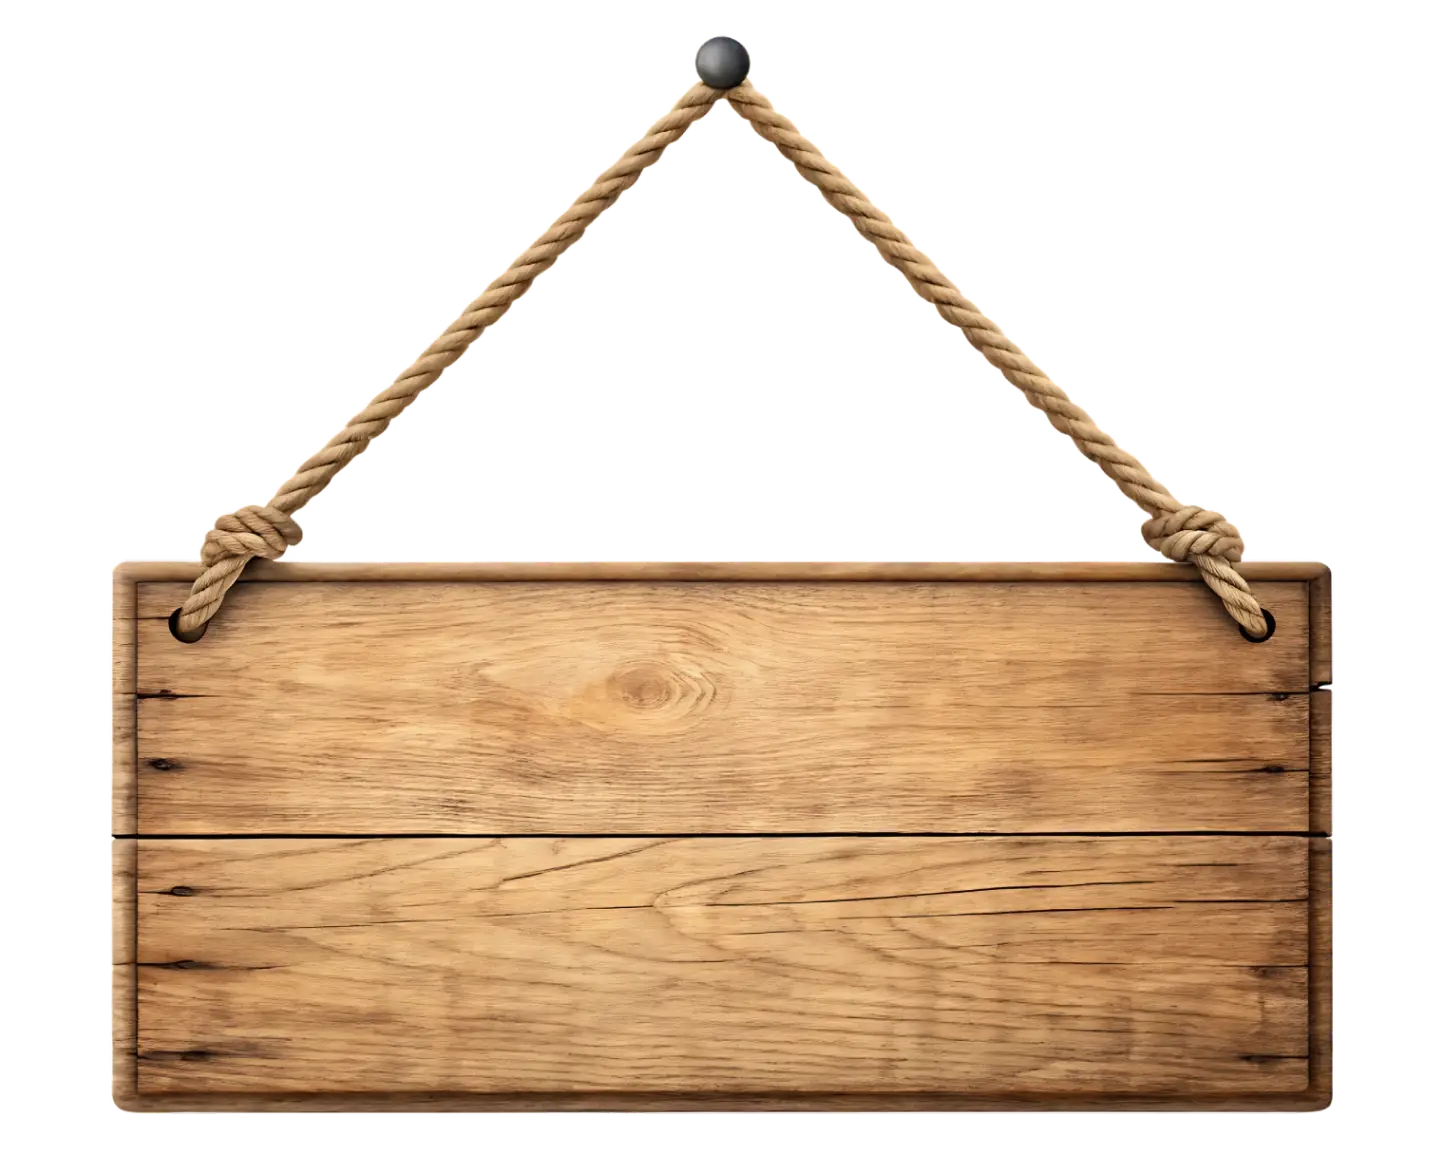
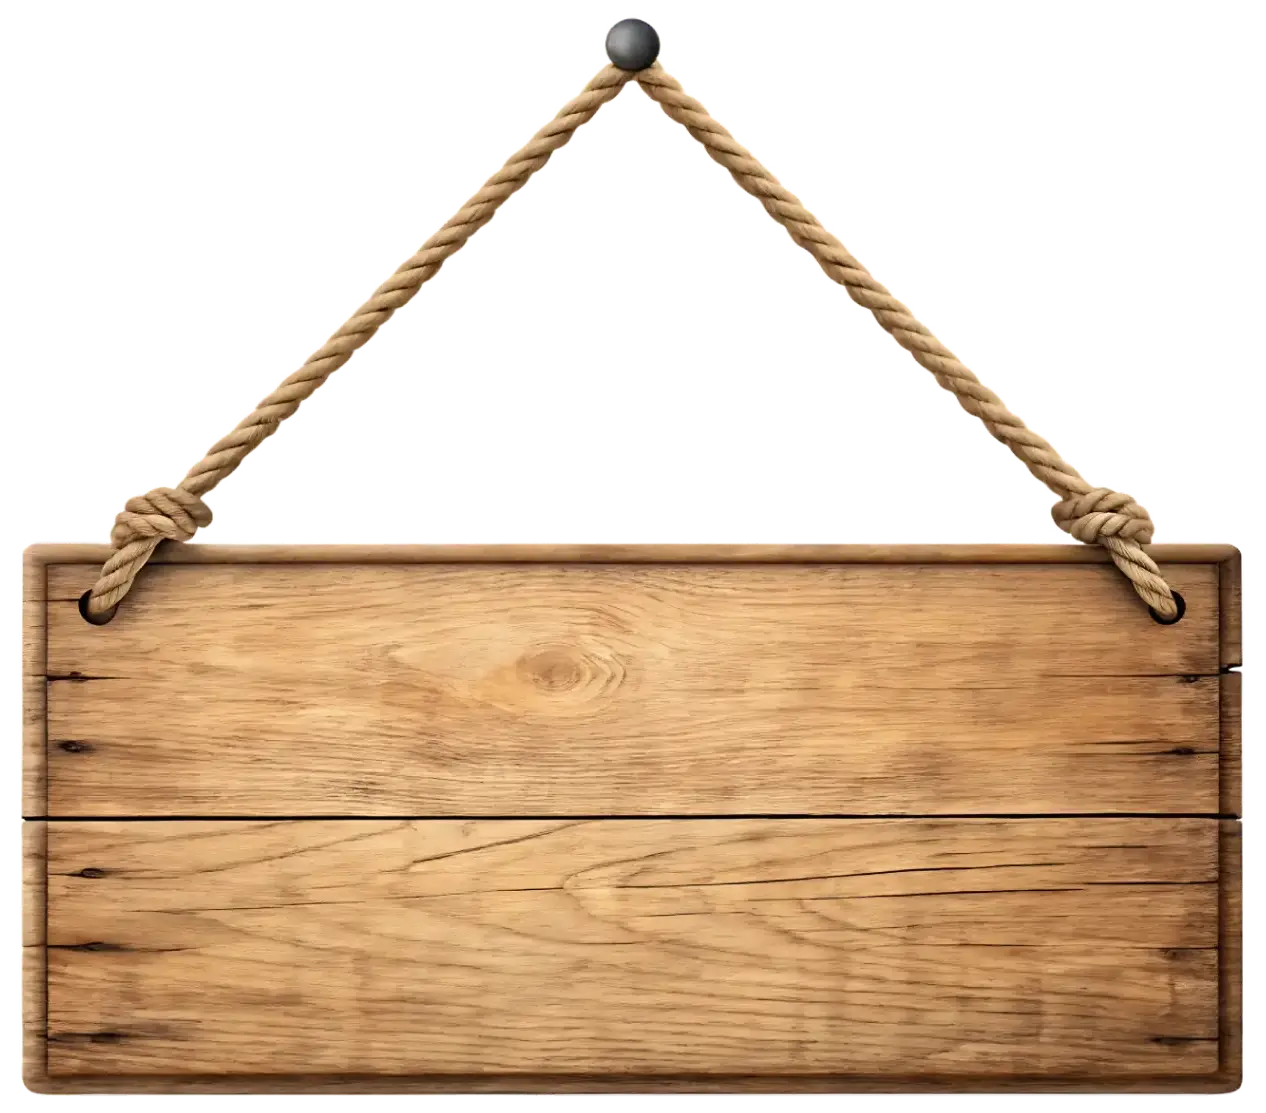
refactor: enhance loading animations and layout styling

Changed region(s): [[0.0, 0.0, 0.9858, 1.0]]

diff --git a/components/global/LoadingScreen.tsx b/components/global/LoadingScreen.tsx
@@ -40,7 +40,7 @@ export default function LoadingScreen() {
       >
         <motion.div
           style={{
-            transformOrigin: "50% 0%",
+            transformOrigin: "50% 50%",
           }}
           initial={{
             y: -600,
@@ -51,7 +51,7 @@ export default function LoadingScreen() {
             phase === "loading"
               ? {
                   y: 0,
-                  rotate: [5, -5, 4, -4, 3, -3, 2, -2, 0],
+                  rotate: [1.2, -1.2, 1, -1, 0.8, -0.8, 0.5, -0.5, 0],
                 }
               : {
                   y: -1200,
@@ -83,7 +83,7 @@ export default function LoadingScreen() {
           <img
             src="/images/wood-board.webp"
             alt="Loading Board"
-            className="select-none pointer-events-none w-[550px]"
+            className="block mx-auto select-none pointer-events-none w-[85vw] max-w-137.5"
             draggable={false}
           />
 

diff --git a/components/homepage/Banner.tsx b/components/homepage/Banner.tsx
@@ -52,18 +52,27 @@ const Banner = () => {
       }}
     >
       <motion.div
+        className="origin-top"
         initial={{
           y: -600,
           opacity: 0,
+          rotate: 0,
         }}
         animate={{
           y: 0,
           opacity: 1,
+          rotate: [0, -0.6, 0.6, -0.6, 0.6, 0],
         }}
         transition={{
-          delay: 5,
-          duration: 1.2,
-          ease: [0.22, 1, 0.36, 1],
+          y: { delay: 5, duration: 1.2, ease: [0.22, 1, 0.36, 1] },
+          opacity: { delay: 5, duration: 1.2, ease: [0.22, 1, 0.36, 1] },
+          rotate: {
+            delay: 6.2,
+            duration: 6,
+            repeat: Infinity,
+            repeatType: "loop",
+            ease: "easeInOut",
+          },
         }}
       >
         <div className="relative z-10 w-fit flex items-center justify-center">

diff --git a/components/homepage/WhereIWork.tsx b/components/homepage/WhereIWork.tsx
@@ -66,7 +66,7 @@ const jobs: Job[] = [
 
 const WhereIWork = () => {
   return (
-    <section className="bg-[#000e04] relative py-16 md:py-24">
+    <section className="bg-[#000e04] relative py-16 md:py-24 overflow-x-hidden">
       <div className="container mx-auto px-4">
         <h2 className="text-3xl md:text-4xl font-bold text-white font-permanent-marker mb-4">
           Where I Work

diff --git a/app/globals.css b/app/globals.css
@@ -94,6 +94,11 @@ body {
     auto;
 }
 
+html,
+body {
+  overflow-x: hidden;
+}
+
 /* For Chrome, Safari, Edge, Opera */
 html::-webkit-scrollbar {
   display: none;
